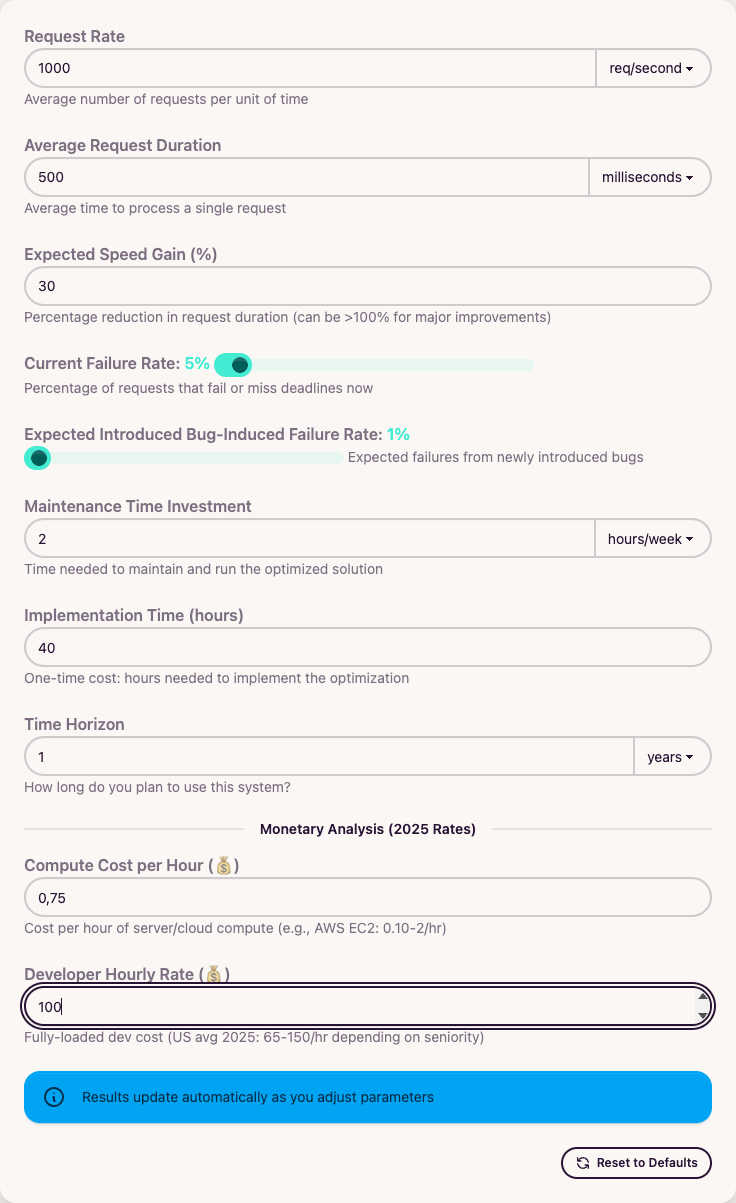
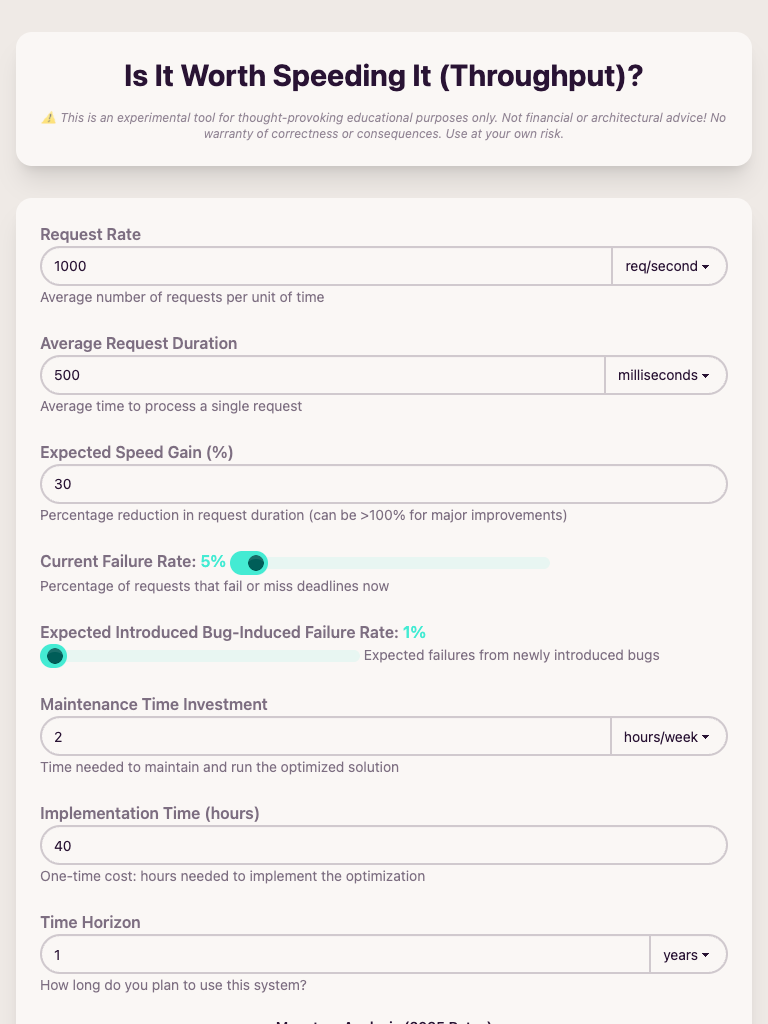
smaller screenshots

Changed region(s): [[0.0312, 0.0, 0.9688, 1.0], [0.7812, 0.6875, 0.9688, 0.75]]

diff --git a/cypress/support/commands.ts b/cypress/support/commands.ts
@@ -403,18 +403,50 @@ Cypress.Commands.add('shouldShowDecisionBadge', () => {
 Cypress.Commands.add('screenshotInputsSection', (filename: string) => {
   // Hide floating bubble to prevent it from appearing in inputs section screenshots
   cy.get(SELECTORS.floatingBubble).invoke('css', 'display', 'none');
-  cy.get(SELECTORS.inputsSection).screenshot(filename, {
-    overwrite: true,
-    capture: 'viewport', // Limit to viewport height instead of full element
+  // Scroll to inputs section to center it in viewport
+  cy.get(SELECTORS.inputsSection).scrollIntoView();
+  cy.wait(300);
+
+  // Get current viewport dimensions
+  cy.window().then((win) => {
+    const viewportWidth = win.innerWidth;
+    const viewportHeight = win.innerHeight;
+
+    // Take clipped screenshot - adjust clip coordinates as needed
+    cy.screenshot(filename, {
+      overwrite: true,
+      clip: {
+        x: 0,
+        y: 0,
+        height: viewportHeight,
+        width: viewportWidth
+      },
+    });
   });
 });
 
 Cypress.Commands.add('screenshotResultsSection', (filename: string) => {
   // Hide floating bubble to prevent it from appearing in results section screenshots
   cy.get(SELECTORS.floatingBubble).invoke('css', 'display', 'none');
-  cy.get(SELECTORS.resultsSectionData).screenshot(filename, {
-    overwrite: true,
-    capture: 'viewport', // Limit to viewport height instead of full element
+  // Scroll to results section to center it in viewport
+  cy.get(SELECTORS.resultsSectionData).scrollIntoView();
+  cy.wait(300);
+
+  // Get current viewport dimensions
+  cy.window().then((win) => {
+    const viewportWidth = win.innerWidth;
+    const viewportHeight = win.innerHeight;
+
+    // Take clipped screenshot - adjust clip coordinates as needed
+    cy.screenshot(filename, {
+      overwrite: true,
+      clip: {
+        x: 0,
+        y: 0,
+        height: viewportHeight,
+        width: viewportWidth
+      },
+    });
   });
 });
 
